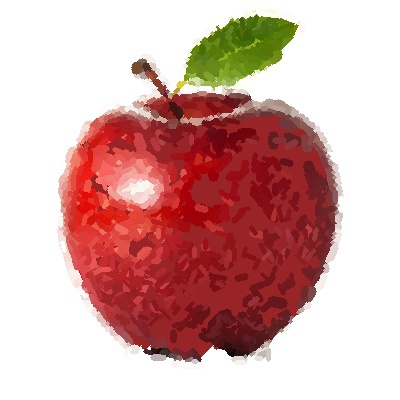
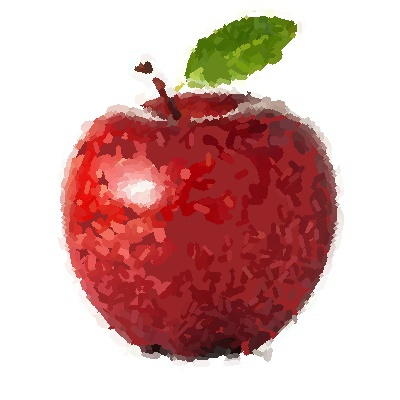
Stroke Clustering

Changed region(s): [[0.12, 0.03, 0.87, 0.93]]

diff --git a/VisualFeedback/VisualFeedback/StrokesGeneration.cpp b/VisualFeedback/VisualFeedback/StrokesGeneration.cpp
@@ -57,31 +57,83 @@ void EMapConstruct(Mat img, Mat & edgeMap, Mat & angles){
 	imwrite("Image/EdgeMap.jpg", edgeMap);
 #endif
 }
-
+bool ColorSort(StrokeCluster c1, StrokeCluster c2){
+ 	pair <int, double> p1 = c1.getMaxInfo();
+	pair <int, double> p2 = c2.getMaxInfo();
+	if (p1.first < p2.first)
+		return true;
+	if (p1.first > p2.first)
+		return false;
+	if (p1.second > p2.second)
+		return true;
+	if (p1.second < p2.second)
+		return false;
+	return false;
+}
 void StrokesGeneration(const Mat img, Mat & canvas, const vector<pair <Point, float>> drawPoints, const Mat edgeMap, const Mat angles, float iteration){
 
-	int num = 0;
+
+	vector<StrokeCluster> StrokeClusters;
 	
-	// Draw on canvas
-	for (int i = 0; i < drawPoints.size(); i++){
-		//float p = drawPoints[i].second / 255.0;
-		//float sp = (double)rand() / (RAND_MAX);
-		//int seed = rand() % int(SAMPLEFREQ * iteration);
-		//if (seed % int(SAMPLEFREQ * iteration) - 1 == 1){
-		//if (1){//sp < p){
-			num += 1;
+	// Initial Stroke Cluster
+	StrokeClusters.push_back(StrokeCluster());
+	int x = drawPoints[0].first.x;
+	int y = drawPoints[0].first.y;
+	Scalar color = img.at<Vec3b>(y, x);
+	float angle = angles.at<float>(y, x) + PI / 2;
+	StrokeClusters[0].addStroke(Stroke(color, Point2f(x, y), 10.0 / iteration, angle, 10.0));
+
+
+	// Color clustering
+	for (int i = 1; i < drawPoints.size(); i++){
+		float minDiffer = INFINITE;
+		Stroke stroke;
+		int bestIndex = 0;
+		for (int c = 0; c < StrokeClusters.size(); c++){
 			int x = drawPoints[i].first.x;
 			int y = drawPoints[i].first.y;
 			Scalar color = img.at<Vec3b>(y, x);
-			float angle = angles.at<float>(y, x) + PI / 2;
-			Stroke stroke(color, Point2f(x, y), 10.0/iteration, angle, 10.0);
-			stroke.drawOnCanvas(canvas, edgeMap);
+			float colorDiffer = StrokeClusters[c].computeDiffer(color);
+			if (colorDiffer < minDiffer){
+				bestIndex = c;
+				minDiffer = colorDiffer;
+				float angle = angles.at<float>(y, x) + PI / 2;
+				stroke = Stroke(color, Point2f(x, y), 10.0 / iteration, angle, 10.0);
+			}
+		}
+		// Add into cluster
+		if (minDiffer < CLUSTTHRESH){
+			StrokeClusters[bestIndex].addStroke(stroke);
+		}
+		// Construct a new cluster
+		else{
+			StrokeClusters.push_back(StrokeCluster());
+			StrokeClusters[StrokeClusters.size() - 1].addStroke(stroke);
+		}
+	}
+	// Color Sorting
+	sort(StrokeClusters.begin(), StrokeClusters.end(), ColorSort);
+	/*for (int c = 0; c < StrokeClusters.size(); c++){
+		StrokeClusters[c].showMaxInfo();
+	}*/
+
+
+	printf("Drawing iteration : %d \n", iteration);
+	// Draw on canvas
+	for (int c = 0; c < StrokeClusters.size(); c++){
+		int strokeNum = StrokeClusters[c].getNum();
+		Vec4f CMYK = StrokeClusters[c].getColor();
+		printf("  # of stroke in cluster %d : %d   (%d, %d, %d, %d) %d \n",
+			c, strokeNum, (int)CMYK[0], (int)CMYK[1], (int)CMYK[2], (int)CMYK[3], StrokeClusters[c].getMaxInfo().first);
+		for (int s = 0; s < strokeNum; s++){
+			StrokeClusters[c].getStroke(s).drawOnCanvas(canvas, edgeMap);
 #if SIMULATION
 			imshow("Simulation", canvas);
 			waitKey(10);
 #endif
-	}
-	cout << "Number of actual draw points: " << num << endl;
+		}
+		//waitKey(0);
+	}	
 
 #if DISPLAY
 	ShowImg("Original", img);

diff --git a/VisualFeedback/VisualFeedback/DataStructure.cpp b/VisualFeedback/VisualFeedback/DataStructure.cpp
@@ -1,6 +1,7 @@
 #include "DataStructure.h"
-
-
+// ************************
+//  Stroke Member function
+// ************************
 Stroke::Stroke(Scalar c, Point2f o, float r, float theta, float l){
 	color = c;
 	center = start = end = o;
@@ -10,7 +11,6 @@ Stroke::Stroke(Scalar c, Point2f o, float r, float theta, float l){
 	float ratio = 0.8 + static_cast <float> (rand()) / (static_cast <float> (RAND_MAX / (1.2 - 0.8)));
 	length = l*ratio;
 };
-
 void Stroke::findEndpoint(const float bound_x, const float bound_y, const Mat edgeMap){
 
 	// Find Start Point
@@ -69,7 +69,6 @@ void Stroke::findEndpoint(const float bound_x, const float bound_y, const Mat ed
 	}
 	end = Point2f(end_x, end_y);
 }
-
 float Stroke::BilinearInterplation(float x, float y, const Mat edgeMap){
 	float ceil_x = ceil(x);
 	float floor_y = floor(y);
@@ -81,4 +80,26 @@ float Stroke::BilinearInterplation(float x, float y, const Mat edgeMap){
 	float leftBottom = edgeMap.at<uchar>(ceil_y, floor_x);
 	float rightBottom = edgeMap.at<uchar>(ceil_y, ceil_x);
 	return ((x - floor_x)*rightTop + (ceil_x - x)*leftTop)*(ceil_y - y) + ((x - floor_x)*rightBottom + (ceil_x - x)*leftBottom)*(y - floor_y);
+}
+
+// *******************************
+//  StrokeCluster Member function
+// *******************************
+void StrokeCluster::addStroke(Stroke drawStroke){
+	drawStrokes.push_back(drawStroke);
+	pointNum += 1;
+
+	Scalar color = drawStroke.getColor();
+	Vec4f CMYK;
+	rgb2cmyk(Vec3b(color[0], color[1], color[2]), CMYK);
+	avgCMYK = (avgCMYK * float(pointNum-1) + Vec4f(float(CMYK[0]), float(CMYK[1]), float(CMYK[2]), float(CMYK[3]))) / float(pointNum);
+	minMaxIdx(avgCMYK, NULL, &maxInfo.second, NULL, &maxInfo.first);
+}
+float StrokeCluster::computeDiffer(Scalar color){
+	Vec4f CMYK;
+	Vec4f differ;
+	rgb2cmyk(Vec3b(color[0], color[1], color[2]), CMYK);
+	absdiff(CMYK, avgCMYK, differ);
+	float differMean = mean(differ)[0];
+	return differMean;
 }

diff --git a/VisualFeedback/VisualFeedback/ColorFeedback.cpp b/VisualFeedback/VisualFeedback/ColorFeedback.cpp
@@ -1,20 +1,5 @@
 #include "FuncDeclaration.h"
 
-void rgb2cmyk(const Vec3b bgr, int * cmyk) {
-	int B = bgr.val[0];
-	int G = bgr.val[1];
-	int R = bgr.val[2];
-	float r = R / 255.;
-	float g = G / 255.;
-	float b = B / 255.;
-	float k = std::min(std::min(1 - r, 1 - g), 1 - b);
-
-	cmyk[0] = (1 - r - k) / (1 - k) * 255.;
-	cmyk[1] = (1 - g - k) / (1 - k) * 255.;
-	cmyk[2] = (1 - b - k) / (1 - k) * 255.;
-	cmyk[3] = k * 255.;
-}
-
 void nonMaximaSuppression(const Mat& src, const int sz, Mat& dst, const Mat mask) {
 
 	// initialise the block mask and destination
@@ -67,20 +52,21 @@ void colorDiffer(const Mat target, Mat detect, vector<pair <Point, float>> & dra
 	Mat differImage = target.clone();
 	Mat differMap = Mat(target.rows, target.cols, CV_8UC1);
 	differMap.setTo(0);
-
 	// Compute Difference 
 	for (int y = 0; y < target.rows; y++) {
 		for (int x = 0; x < target.cols; x++) {
-			int targetCMYK[4];
-			int detectCMYK[4];
+			Vec4f targetCMYK;
+			Vec4f detectCMYK;
+			Vec4f differ;
 			rgb2cmyk(target.at<Vec3b>(y, x), targetCMYK);
 			rgb2cmyk(detect.at<Vec3b>(y, x), detectCMYK);
-			ArrayXXf differ(1, 4);
-			differ << abs(targetCMYK[0] - detectCMYK[0]), abs(targetCMYK[1] - detectCMYK[1]), abs(targetCMYK[2] - detectCMYK[2]), abs(targetCMYK[3] - detectCMYK[3]);
-			float maxDiffer = differ.maxCoeff();
-			differMap.at<uchar>(y, x) = (uchar)maxDiffer;
-			if (maxDiffer > DRAWTHRESH / iteration){
-				circle(differImage, Point(x, y), 0, Scalar(0, 0, maxDiffer));
+			
+			absdiff(targetCMYK, detectCMYK, differ);
+			float differMean = mean(differ)[0];
+
+			differMap.at<uchar>(y, x) = (uchar)differMean;
+			if (differMean > DRAWTHRESH / iteration){
+				circle(differImage, Point(x, y), 0, Scalar(0, 0, differMean));
 				//drawPoints.push_back(make_pair(Point(x, y), maxDiffer));
 			}
 			else if (iteration == 1){

diff --git a/VisualFeedback/VisualFeedback/DataStructure.h b/VisualFeedback/VisualFeedback/DataStructure.h
@@ -1,8 +1,8 @@
-#include "Main.h"
-
+#include "FuncDeclaration.h"
 
 class Stroke{
 public:
+	Stroke(){}
 	Stroke(Scalar, Point2f, float, float, float);
 	void findEndpoint(const float, const float, const Mat edgeMap);
 	float BilinearInterplation(float x, float y, const Mat edgeMap);
@@ -10,8 +10,26 @@ public:
 		findEndpoint(float(canvas.cols), float(canvas.rows), edgeMap);
 		line(canvas, start, end, color, radius);
 	}
+	Scalar getColor(){ return color; }
 private:
 	Scalar color;
 	Point2f center, start, end;
 	float radius, dir_x, dir_y, length;
+};
+
+class StrokeCluster{
+public:
+	StrokeCluster(){ avgCMYK = Vec4f(0, 0, 0, 0); pointNum = 0;  maxInfo = make_pair(0, 0); }
+	void addStroke(Stroke drawStroke);
+	float computeDiffer(Scalar color);
+	Stroke getStroke(int index){ return drawStrokes[index]; }
+	int getNum(){ return pointNum; }
+	Vec4f getColor(){ return avgCMYK; }
+	void showMaxInfo(){ cout << maxInfo.first << " " << maxInfo.second << endl; }
+	pair<int, double> getMaxInfo(){ return maxInfo; }
+private:
+	vector<Stroke> drawStrokes;
+	Vec4f avgCMYK;
+	int pointNum;
+	pair<int, double> maxInfo;
 };

diff --git a/VisualFeedback/VisualFeedback/Utility.cpp b/VisualFeedback/VisualFeedback/Utility.cpp
@@ -1,4 +1,5 @@
 #include "FuncDeclaration.h"
+#include "DataStructure.h"
 bool ColorDifferenceCompare(pair <Point, float> c1, pair <Point, float> c2) {
 	float i = c1.second;
 	float j = c2.second;
@@ -232,4 +233,17 @@ string outputFileName(string file_name, int index, string type){
 	file_name.append(type);
 	return file_name;
 }
+void rgb2cmyk(const Vec3b bgr, Vec4f & cmyk) {
+	int B = bgr.val[0];
+	int G = bgr.val[1];
+	int R = bgr.val[2];
+	float r = R / 255.;
+	float g = G / 255.;
+	float b = B / 255.;
+	float k = std::min(std::min(1 - r, 1 - g), 1 - b);
 
+	cmyk[0] = (1 - r - k) / (1 - k) * 255.;
+	cmyk[1] = (1 - g - k) / (1 - k) * 255.;
+	cmyk[2] = (1 - b - k) / (1 - k) * 255.;
+	cmyk[3] = k * 255.;
+}

diff --git a/VisualFeedback/VisualFeedback/Main.cpp b/VisualFeedback/VisualFeedback/Main.cpp
@@ -19,7 +19,7 @@ int main(int argc, const char** argv)
 	//Mat targetImg = imread("colorImgAlexis.jpg");
 	Mat targetImg = imread("apple.jpg");
 
-	ColorSeparation(targetImg);
+	//ColorSeparation(targetImg);
 	Mat detectImg = imread("firstDraw.jpg");
 	//Mat detectImg = imread("Image/Origin.jpg");
 	//CaptureFrame(detectImg);

diff --git a/VisualFeedback/VisualFeedback/FuncDeclaration.h b/VisualFeedback/VisualFeedback/FuncDeclaration.h
@@ -29,3 +29,4 @@ string outputFileName(string file_name, int index, string type);
 float BilinearInterplation(float x, float y);
 void ShowImg(string window_name, Mat img);
 bool ColorDifferenceCompare(pair <Point, float> c1, pair <Point, float> c2);
+void rgb2cmyk(const Vec3b bgr, Vec4f & cmyk);

diff --git a/VisualFeedback/VisualFeedback/Main.h b/VisualFeedback/VisualFeedback/Main.h
@@ -23,7 +23,8 @@ using namespace Eigen;
 using namespace std;
 using namespace cv;
 
-#define DRAWTHRESH 50//30.0
+#define DRAWTHRESH 20// 20 for mean 50 for max 
+#define CLUSTTHRESH 5
 #define ITERATION 3
 #define SAMPLEFREQ 50
 #define PAUSE fgetc(stdin);
